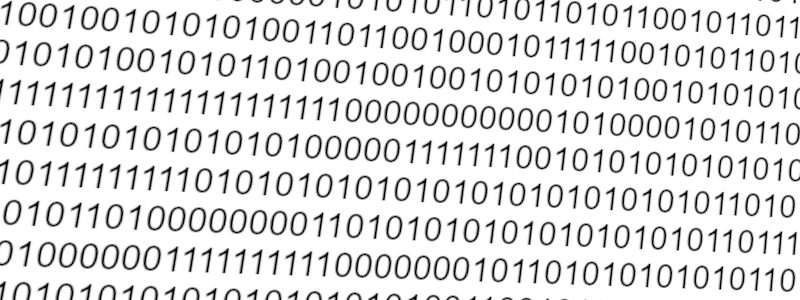
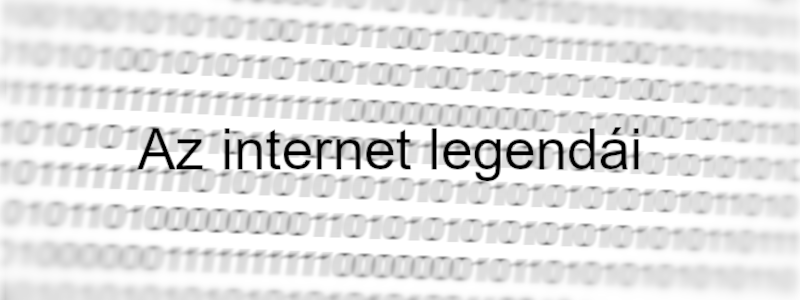
nyitolap kép szerkesztése

diff --git a/pages/angol_nyitolap.html b/pages/angol_nyitolap.html
@@ -13,7 +13,7 @@
     </a>
     <img class="kep-lent" src="../images/angolzaszlo.png" alt="English flag">
     <div class="szovegtest">
-        <img class="fokep kep-kozep" src="../images/fejlec.png" alt="Header" title="The interenet's legends">
+        <img class="fokep kep-kozep" src="../images/fejlec_en.png" alt="Header" title="The interenet's legends">
             <div class="kep-kozep">
                 <img class="tudoskep" title="Douglas Engelbart" src="../images/tudos_kepek/douglas_engelbart.png" alt="Douglas Engelbart">
                 <img class="tudoskep" title="J.C.R. Liclider" src="../images/tudos_kepek/j_c_r_licklider.png" alt="J. C. R. Liclider">
